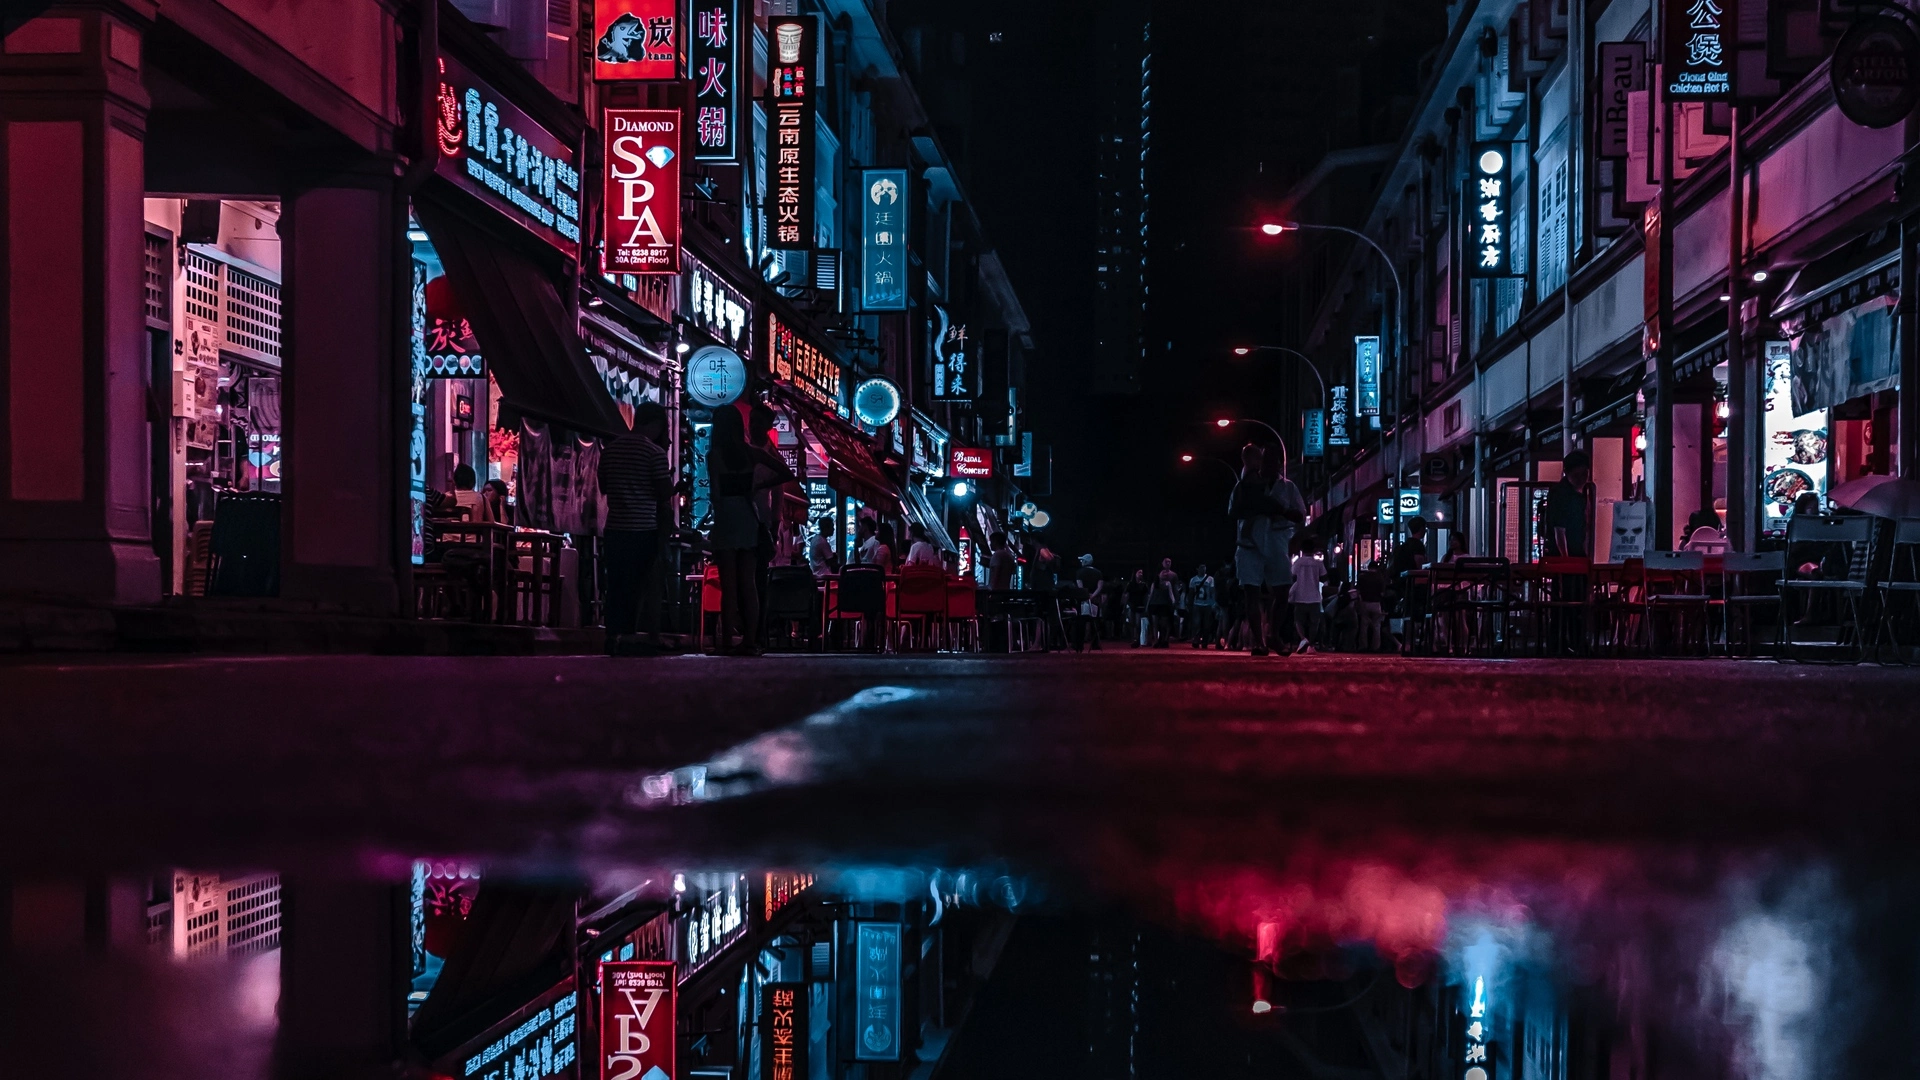
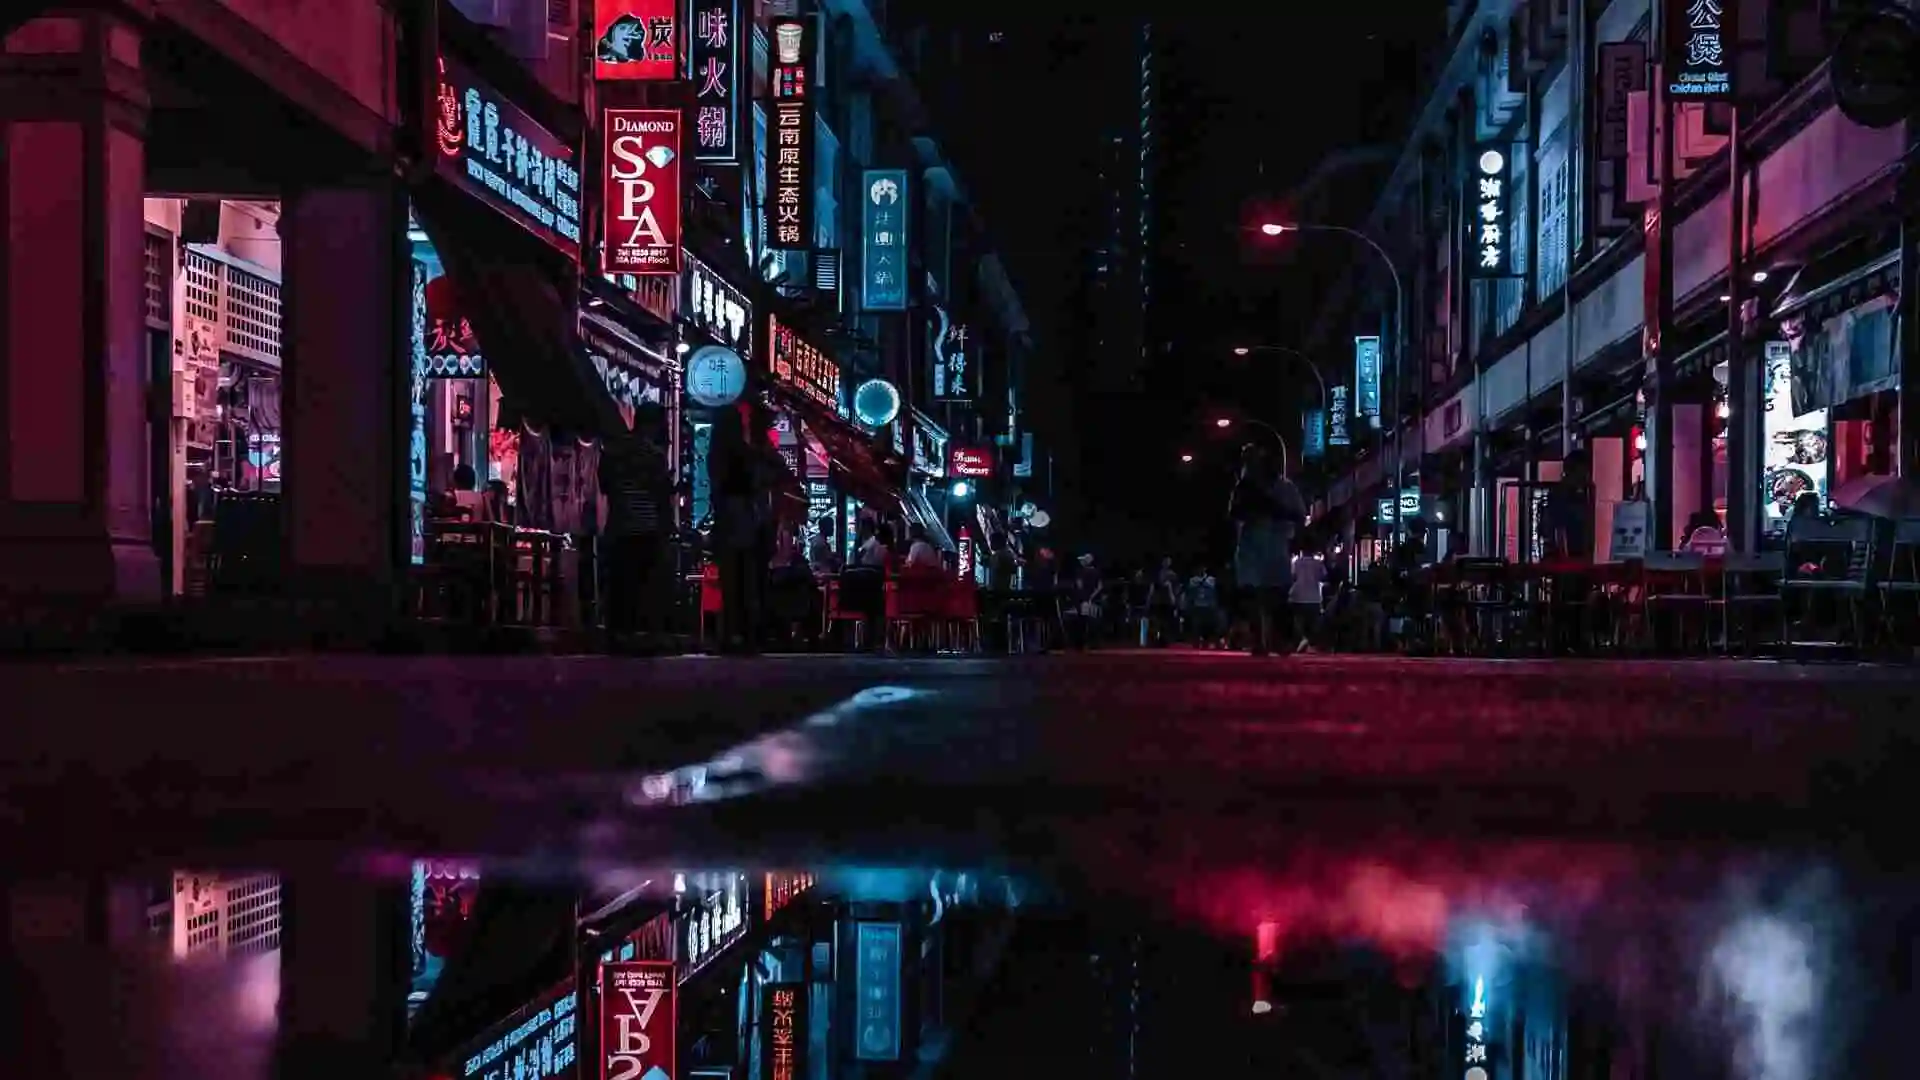
streetdotwebp

diff --git a/components/portfolio/portfolio.js b/components/portfolio/portfolio.js
@@ -50,7 +50,7 @@ export default function Portfolio(props){
                 </Script>
 
             
-                <Parallax id="portfolio" className="bg-[url(/street.jpg)]">
+                <Parallax id="portfolio" className="bg-[url(/street.webp)]">
                     <div id="oo" className="mt-2">
                     {/* w-[100%] md:w-[50%] */}
                         <div className=" text-left backdrop-brightness-[0.6] backdrop-blur-[5px] backdrop-saturate-150 sm:mt-10 rounded-3xl p-6 " style={{boxShadow : "0 0 2em rgba(236, 72, 153, 0.0), inset 0 0 4em rgba(255,255,255, 0.00)", backgroundColor : 'rgba(255, 0, 102, 0.17)'}} >
